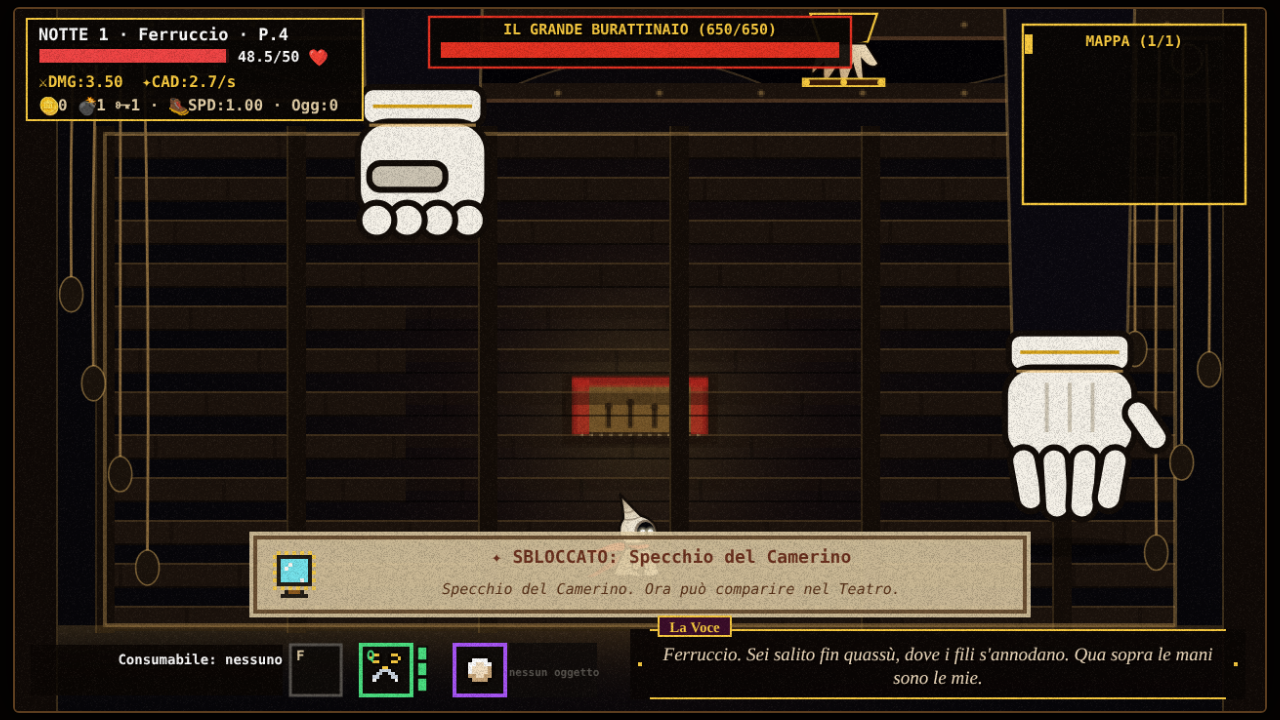
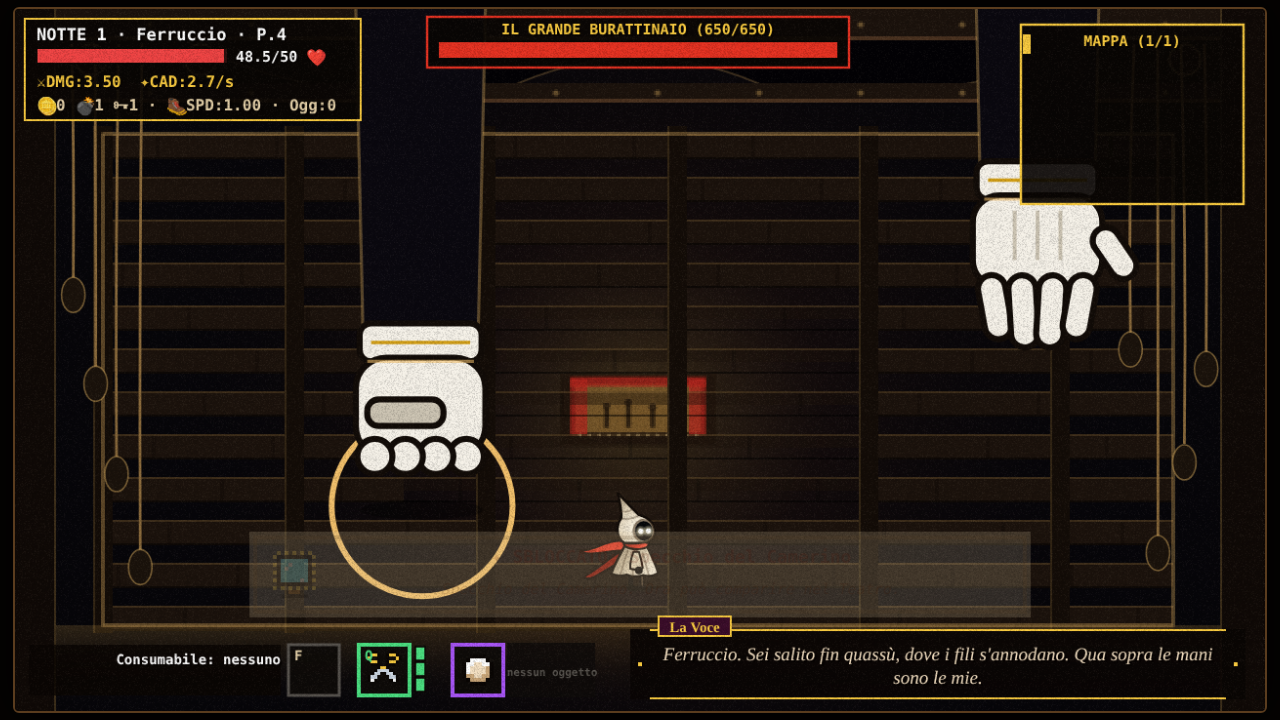
fix(teatro): d1 niente manine della balconata né loro fili durante lo scontro; battuta sui sigilli dopo quella d'ingresso
Richiesta dell'autore. Avvolge disegnaManoMarionettaPittorica e disegnaFiliMarionetta
solo mentre lo scontro è in scena; QA: niente manine nello scontro, tornano fuori.

Story: d1-burattinaio

Claude-Session: https://claude.ai/code/session_01F5x6kDAQ4qaiYDiFx9jQb5

diff --git a/gioco/teatro/d1-burattinaio.js b/gioco/teatro/d1-burattinaio.js
@@ -61,6 +61,7 @@ const BURATTINAIO_D1 = Object.freeze({
     curaOgni: 2,                                 // ogni N marionette cadute, mezza maschera a terra
   }),
   vittoriaTick: 230,
+  secondaBattutaTick: 200,          // la battuta sui sigilli, dopo quella d'ingresso
   battitoBpm: Object.freeze([52, 68, 90]),       // il timpano sotto la tarantella del boss, per atto
 });
 
@@ -578,6 +579,8 @@ function passoD1() {
   while (d1.cicatrici.length && d1.cicatrici[0].t > BURATTINAIO_D1.forbici.squarcioTick) d1.cicatrici.shift();
   for (let i = d1.effetti.length - 1; i >= 0; i--) if (d1.effetti[i].t > 90) d1.effetti.splice(i, 1);
   if (d1.vittoria) { passoVittoriaD1(); return; }
+  // seconda battuta dopo la prima (la presentazione del boss di b8 svuota la coda: si aspetta)
+  if (d1.t === BURATTINAIO_D1.secondaBattutaTick) voceD1(Object.values(d1.sigilli).some(Boolean) ? 'conSigilli' : 'senzaSigilli');
 
   // il timpano sotto la musica: il ritmo cresce con l'atto
   const bpm = BURATTINAIO_D1.battitoBpm[d1.atto - 1] || 60;
@@ -723,6 +726,26 @@ disegnaFrame = function (...args) {
   try { return disegnaFrameBaseD1.apply(this, args); } finally { st.tipo = 'boss'; st.nemici = tutti; partiDaDisegnareD1 = null; }
 };
 let partiDaDisegnareD1 = null;
+
+/** Scontro in scena: le uniche mani sono i due guanti grandi (richiesta dell'autore). */
+const scontroInScenaD1 = () => Boolean((d1.attivo || d1.vittoria) && statoRun.stanzaCorrente && statoRun.stanzaCorrente === d1.stanza && statoRun.fase === 'in_gioco');
+let maniPiccoleD1 = 0; // QA: quante volte la resa ha disegnato le manine della balconata o i loro fili
+
+const disegnaManoMarionettaPittoricaBaseD1 = disegnaManoMarionettaPittorica;
+/** Niente manine con la crociera in alto durante lo scontro col Grande Burattinaio. */
+disegnaManoMarionettaPittorica = function (...args) {
+  if (scontroInScenaD1()) return undefined;
+  maniPiccoleD1++;
+  return disegnaManoMarionettaPittoricaBaseD1.apply(this, args);
+};
+
+const disegnaFiliMarionettaBaseD1 = disegnaFiliMarionetta;
+/** Niente fili delle manine durante lo scontro. */
+disegnaFiliMarionetta = function (...args) {
+  if (scontroInScenaD1()) return undefined;
+  maniPiccoleD1++;
+  return disegnaFiliMarionettaBaseD1.apply(this, args);
+};
 
 const disegnaHUDPixelArtBaseD1 = disegnaHUDPixelArt;
 /** Prima dell'HUD: effetti di caduta, fili che cadono a vittoria. */
@@ -1060,5 +1083,7 @@ Object.assign(window.__teatro.interni, {
     },
     /** QA: porta avanti la scena (salta intermezzi). */
     saltaIntermezzo() { d1.intermezzo = 0; },
+    /** QA: disegni delle manine piccole (e dei loro fili) passati alla resa finora. */
+    maniPiccole: () => maniPiccoleD1,
   }),
 });

diff --git a/tools/qa-teatro-burattinaio.js b/tools/qa-teatro-burattinaio.js
@@ -64,6 +64,10 @@ const foto = (n) => `${prefisso}-${n}.png`;
   await senzaCartigli(); await p.screenshot({ path: foto('01-atto1') });
   const pugno = await aspetta(() => window.__teatro.interni.burattinaioD1.stato().parti.some((x) => x.fase === 'pugno'), 12000, 50);
   ok('mano-a-pugno', pugno);
+  const mp0 = await p.evaluate(() => window.__teatro.interni.burattinaioD1.maniPiccole());
+  await p.waitForTimeout(700);
+  const mp1 = await p.evaluate(() => window.__teatro.interni.burattinaioD1.maniPiccole());
+  ok('niente-manine-nello-scontro', mp0 === mp1, { mp0, mp1 });
   await senzaCartigli(); await p.screenshot({ path: foto('02-pugno') });
   const colpo = await aspetta(() => window.__teatro.interni.burattinaioD1.stato().parti.some((x) => x.fase === 'terra'), 6000, 50);
   ok('mano-a-terra', colpo);
@@ -128,6 +132,7 @@ const foto = (n) => `${prefisso}-${n}.png`;
   await p.waitForTimeout(300);
   s = await S();
   ok('tre-sigilli', s.sigilli.tenaglie && s.sigilli.punzone && s.sigilli.lima, s.sigilli);
+  ok('voce-sigilli', await aspetta(() => JSON.stringify(b8.did).includes('ferri di Gaetano'), 8000));
   await p.evaluate(() => { statoRun.hpHalf = 1; });
   const morto = await aspetta(() => statoRun.fase !== 'in_gioco', 25000, 100);
   ok('morte-dal-burattinaio', morto && (await fase()) === 'morte', await fase());
@@ -136,6 +141,14 @@ const foto = (n) => `${prefisso}-${n}.png`;
   await p.waitForTimeout(300);
   ok('stato-pulito-dopo-morte', !(await S()).attivo, await S());
   await senzaCartigli(); await p.screenshot({ path: foto('11-hub-dopo-morte') });
+  // fuori dallo scontro le manine tornano (una notte normale)
+  const mq0 = await p.evaluate(() => window.__teatro.interni.burattinaioD1.maniPiccole());
+  await p.evaluate(() => nuovaRun(false));
+  await p.waitForTimeout(800);
+  const mq1 = await p.evaluate(() => window.__teatro.interni.burattinaioD1.maniPiccole());
+  ok('manine-tornano-fuori', mq1 > mq0, { mq0, mq1 });
+  await p.evaluate(() => { statoRun.fase = 'hub'; });
+  await p.waitForTimeout(200);
 
   // ---- 3. Aggancio vero di b8 ----
   const via = await p.evaluate(() => window.__teatro.interni.entraSopraLaRibalta());
